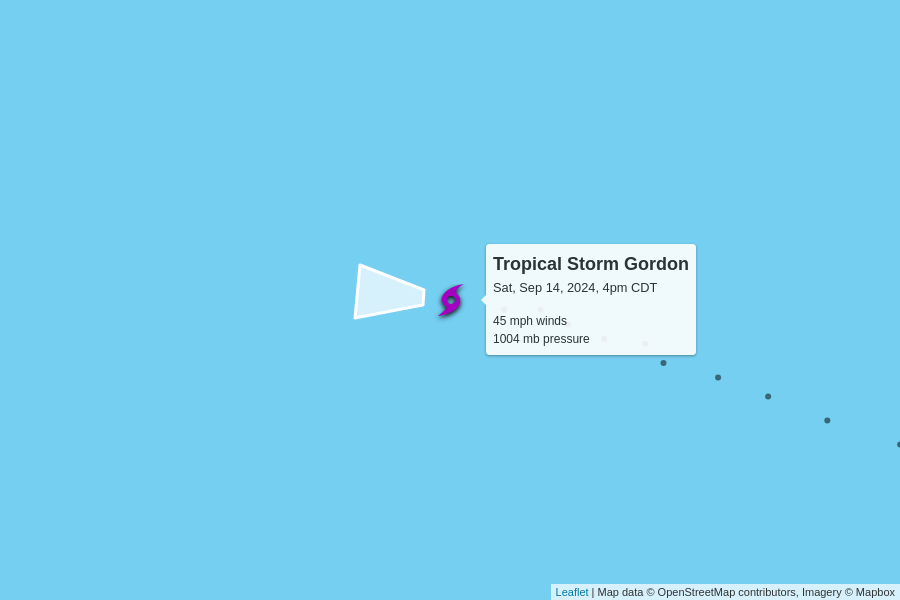
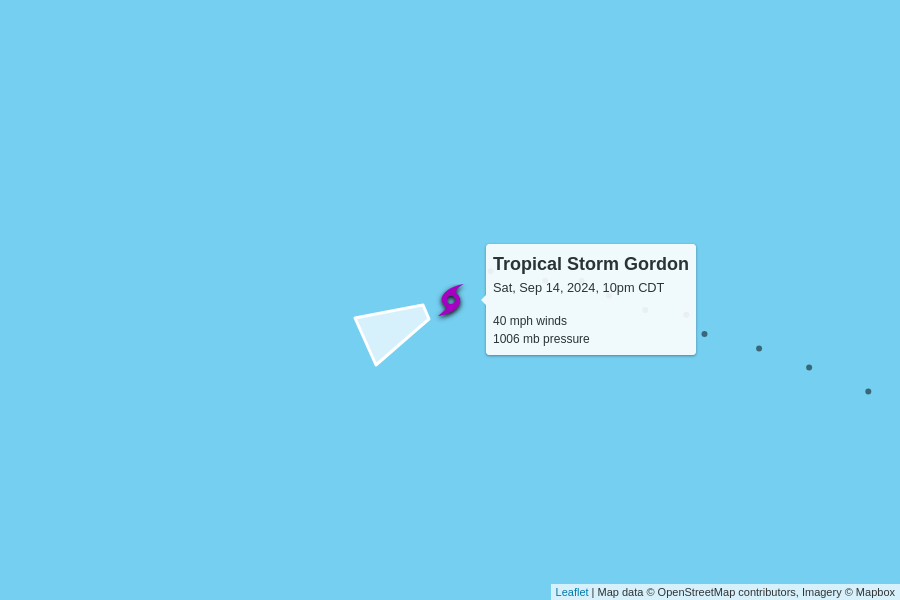
automatic update

Changed region(s): [[0.3733, 0.45, 0.4978, 0.6], [0.6844, 0.45, 0.7467, 0.51], [0.9956, 0.72, 1.0, 0.75]]

diff --git a/docs/index.html b/docs/index.html
@@ -102,7 +102,7 @@
         <td colspan="6" class="storm category-0" >
           <h2>
             Tropical Storm Gordon
-            <p class="updated">last updated <span data-time>2024-09-14T21:00:00.000Z</span></p>
+            <p class="updated">last updated <span data-time>2024-09-15T03:00:00.000Z</span></p>
           </h2>
         </td>
       </tr>
@@ -117,12 +117,12 @@
       </tr>
       <tr>
         <td class="spacer"></td>
-        <td>45 mph<br>0 mph since last update</td>
-        <td>1004 mb<br>0 mb since last update</td>
+        <td>40 mph<br>-5 mph since last update</td>
+        <td>1006 mb<br>+2 mb since last update</td>
         <td>
-          9 mph to the west
+          10 mph to the west-southwest
           <br/>
-          <span style="display: inline-block; font-size: 1.5em; transform: rotate(275deg);">↑</span>
+          <span style="display: inline-block; font-size: 1.5em; transform: rotate(245deg);">↑</span>
         </td>
         <td><a href="https://raw.githubusercontent.com/mgwalker/atlantic-hurricanes/main/data/csv/AL072024.csv">AL072024.csv</a></td>
         <td><a href="https://www.nhc.noaa.gov/archive/2024/GORDON.shtml?">NHC advisories</a></td>
